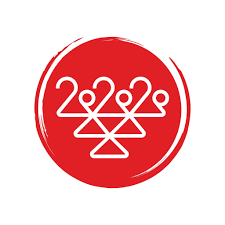
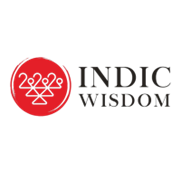
changes final 1

diff --git a/components/portfolio/client-logo.tsx b/components/portfolio/client-logo.tsx
@@ -31,7 +31,7 @@ export default function ClientLogo({
   }
 
   // Special sizing for specific clients
-  const isSpecialSize = client.name === 'Noto' || client.name === 'Scandalous' || client.name === 'BBetter'
+  const isSpecialSize = client.name === 'TWF' || client.name === 'Scandalous' || client.name === 'Indic' || client.name === "VanityWagon" || client.name === "BBetter"
   const imageWidth = isSpecialSize ? 400 : 200
   const imageHeight = isSpecialSize ? 200 : 100
 

diff --git a/components/portfolio/portfolio.tsx b/components/portfolio/portfolio.tsx
@@ -12,7 +12,7 @@ export default function Portfolio() {
         </div>
         
         <div className="relative">
-          <div className="absolute inset-0 bg-gradient-to-r from-white via-transparent to-white pointer-events-none z-10" />
+          <div className="absolute inset-0 bg-gradient-to-r from-white/20 via-transparent to-white/60 pointer-events-none z-10" />
           <ClientLogoBelt className="py-8 md:py-12" />
         </div>
         
